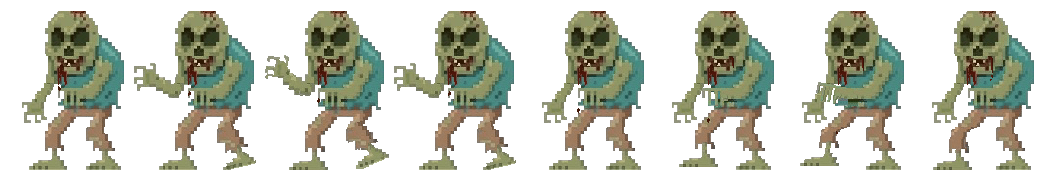
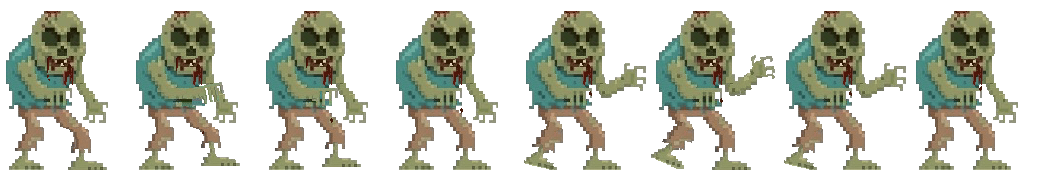
se configuraron sprite-sheet de zombies, se corrigió estetica de ambos juegos

diff --git a/src/scenes/MainMenu.js b/src/scenes/MainMenu.js
@@ -9,60 +9,59 @@ export class MainMenu extends Scene
 
     create ()
     {
-        this.add.image(575, 400, 'background').setScale(1.7);
-        this.add.image(580, 300, 'logo').setScale(1.5);
+        this.add.image(575, 400, 'background').setScale(1);
+        this.add.image(850, 250, 'logo').setScale(2);
     
-        this.playButton = this.add.image(580, 460, "playButton").setInteractive().setScale(0.2).setVisible(true);
+        this.playButton = this.add.image(850, 490, "playButton").setInteractive().setScale(0.2).setVisible(true);
         this.playButton.on('pointerover', () => {
             this.playButton.setScale(0.19);
         });
-
         this.playButton.on('pointerout', () => {
             this.playButton.setScale(0.2);
         });
-
         this.playButton.on('pointerdown', () => {
             this.scene.start('Lobby');
         });
 
-        this.langUSButton = this.add.image(620, 550, "langUSButton").setInteractive().setScale(0.5).setVisible(true);
-        this.langUSButton.on('pointerover', () => {
-            this.langUSButton.setScale(0.49);
-        });
-        this.langUSButton.on('pointerout', () => {
-            this.langUSButton.setScale(0.5);
-        });
-
-        this.langARButton = this.add.image(460, 550, "langARButton").setInteractive().setScale(0.125).setVisible(true);
+        
+        this.langARButton = this.add.image(40, 40, "langARButton").setInteractive().setScale(0.4).setVisible(true);
         this.langARButton.on('pointerover', () => {
-            this.langARButton.setScale(0.117);
+            this.langARButton.setScale(0.38);
         });
         this.langARButton.on('pointerout', () => {
-            this.langARButton.setScale(0.125);
+            this.langARButton.setScale(0.4);
         });
 
-        this.langFRButton = this.add.image(540, 550, "langFRButton").setInteractive().setScale(0.187).setVisible(true);
+        this.langFRButton = this.add.image(100, 40, "langFRButton").setInteractive().setScale(0.36).setVisible(true);
         this.langFRButton.on('pointerover', () => {
-            this.langFRButton.setScale(0.179);
+            this.langFRButton.setScale(0.34);
         });
         this.langFRButton.on('pointerout', () => {
-            this.langFRButton.setScale(0.187);
+            this.langFRButton.setScale(0.36);
         });
 
-        this.langALButton = this.add.image(700, 550, "langALButton").setInteractive().setScale(0.125).setVisible(true);
+        this.langUSButton = this.add.image(160, 40, "langUSButton").setInteractive().setScale(0.36).setVisible(true);
+        this.langUSButton.on('pointerover', () => {
+            this.langUSButton.setScale(0.34);
+        });
+        this.langUSButton.on('pointerout', () => {
+            this.langUSButton.setScale(0.36);
+        });
+
+        this.langALButton = this.add.image(220, 40, "langALButton").setInteractive().setScale(0.36).setVisible(true);
         this.langALButton.on('pointerover', () => {
-            this.langALButton.setScale(0.119);
+            this.langALButton.setScale(0.34);
         });
         this.langALButton.on('pointerout', () => {
-            this.langALButton.setScale(0.125);
+            this.langALButton.setScale(0.36);
         });
 
-        this.langBRButton = this.add.image(580, 630, "langBRButton").setInteractive().setScale(0.187).setVisible(true);
+        this.langBRButton = this.add.image(280, 40, "langBRButton").setInteractive().setScale(0.36).setVisible(true);
         this.langBRButton.on('pointerover', () => {
-            this.langBRButton.setScale(0.179);
+            this.langBRButton.setScale(0.34);
         });
         this.langBRButton.on('pointerout', () => {
-            this.langBRButton.setScale(0.187);
+            this.langBRButton.setScale(0.36);
         });
     }
 }

diff --git a/src/scenes/Preloader.js b/src/scenes/Preloader.js
@@ -39,15 +39,17 @@ export class Preloader extends Scene
         this.load.image('langBRButton', 'menu/langBR.png');
 
         this.load.image('playButton', 'menu/play.png');
-        this.load.image('background', 'bg.jpeg');
+        this.load.image('background', 'menu/bg.png');
 
+        this.load.image('bg-lob', 'lobby/bg-lobby.png');
         this.load.image('back', 'lobby/backboton.png');
         this.load.image('VS', 'lobby/versus.png');
         this.load.image('COP', 'lobby/coop.png');
 
-        this.load.image ('mapa','cooperativo/mapacop.jpeg');
+        this.load.image ('mapa','cooperativo/mapacop.png');
         this.load.image ('uixcop', 'cooperativo/uixCOP.png');
 
+        this.load.image('bg-vs','versus/bgVS.jpeg');
         this.load.image ('uixvs', 'versus/uixVS.png');
         
         //cooperativo
@@ -72,25 +74,13 @@ export class Preloader extends Scene
         });
 
         //zombies
-        this.load.spritesheet('z1_idle', '', {
-            frameWidth: 130,
-            frameHeight: 158,
+        this.load.spritesheet('zombie1', 'cooperativo/zombie1-Sheet.png', {
+            frameWidth: 264,
+            frameHeight: 390,
         });
-        this.load.spritesheet('zombie1', '', {
-            frameWidth: 130,
+        this.load.spritesheet('zombie2', 'cooperativo/zombie2-Sheet.png', {
+            frameWidth: 125,
             frameHeight: 158,
-        });
-        this.load.spritesheet('z2_idle', '', {
-            frameWidth: 130,
-            frameHeight: 158,
-        });
-        this.load.spritesheet('zombie2', '', {
-            frameWidth: 130,
-            frameHeight: 158,
-        });
-        this.load.spritesheet('z3_idle','cooperativo/zombie3-idle.png', {
-            frameWidth: 115,
-            frameHeight: 170,
         });
         this.load.spritesheet('zombie3','cooperativo/zombie3-Sheet.png', {
             frameWidth: 130,
@@ -185,13 +175,13 @@ export class Preloader extends Scene
         //zombies
         this.anims.create({
             key: 'zombie1_walk',
-            frames: this.anims.generateFrameNumbers('zombie1', {start: 0, end: 7}),
+            frames: this.anims.generateFrameNumbers('zombie1', {start: 0, end: 4}),
             frameRate: 10,
             repeat: -1,
         })
         this.anims.create({
             key: 'zombie2_walk',
-            frames: this.anims.generateFrameNumbers('zombie2', {start: 0, end: 7}),
+            frames: this.anims.generateFrameNumbers('zombie2', {start: 0, end: 5}),
             frameRate: 10,
             repeat: -1,
         })

diff --git a/src/scenes/Game.js b/src/scenes/Game.js
@@ -47,7 +47,7 @@ export class Game extends Scene {
     constructor() {
         super('Game');
         this.player1 = {
-            score: 0,
+            score: 60,
             controls: null,
             blocks: []
         };
@@ -56,12 +56,12 @@ export class Game extends Scene {
             controls: null,
             blocks: []
         };
-        this.timeLeft = 20; 
+        this.timeLeft = 60; 
         this.margin = 19; //margen 
     }
     
     init() {
-        this.timeLeft = 20;
+        this.timeLeft = 0;
         this.player1 = {
             score: 0,
         }
@@ -72,8 +72,8 @@ export class Game extends Scene {
 
     create() {
 
-        this.add.image(580, 384, 'background').setScale(2);
-        this.add.image(575, 384, 'uixvs');
+        this.add.image(575, 400, 'bg-vs').setScale(1);
+        this.add.image(575, 384.5, 'uixvs');
         this.player1.sprite = this.physics.add.sprite(300, 385, 'P1-idle').setScale(0.87);
         this.player2.sprite = this.physics.add.sprite(900, 385, 'P2-idle').setScale(0.87);
 
@@ -110,10 +110,10 @@ export class Game extends Scene {
         });
 
        
-        this.player1.scoreText = this.add.text(10, 10, `Score P1: ${this.player1.score}`, { fontSize: '32px', fill: '#ffffff' });
-        this.player2.scoreText = this.add.text(this.game.config.width - 270, 10, `Score P2: ${this.player2.score}`, { fontSize: '32px', fill: '#ffffff' });
+        this.player1.scoreText = this.add.text(200, 15, ` ${this.player1.score}`, { fontSize: '32px', fill: '#ffffff' });
+        this.player2.scoreText = this.add.text(this.game.config.width - 150, 15, ` ${this.player2.score}`, { fontSize: '32px', fill: '#ffffff' });
 
-        this.timerText = this.add.text(500, 10, `Time: ${this.timeLeft}`, { fontSize: '32px', fill: '#ffffff' });
+        this.timerText = this.add.text(587, 15, ` ${this.timeLeft}`, { fontSize: '32px', fill: '#ffffff' });
         this.timerEvent = this.time.addEvent({
             delay: 1000,
             callback: this.updateTimer,
@@ -253,13 +253,13 @@ export class Game extends Scene {
             });
     
             player.score += 10;
-            player.scoreText.setText(`Score P${player === this.player1 ? 1 : 2}: ${player.score}`);
+            player.scoreText.setText(` ${player.score}`);
         }
     }
 
     updateTimer() {
         this.timeLeft--;
-        this.timerText.setText(`Time: ${this.timeLeft}`);
+        this.timerText.setText(`${this.timeLeft}`);
         if (this.timeLeft <= 0) {
             this.timerEvent.remove();
         

diff --git a/src/scenes/GameCo.js b/src/scenes/GameCo.js
@@ -1,6 +1,6 @@
 import { Scene } from 'phaser';
 
-class Zombie extends Phaser.GameObjects.Sprite {
+class Zombie extends Phaser.Physics.Arcade.Sprite {
     constructor(scene, x, y, type, player) {
         super(scene, x, y, 'zombie_idle');  
 
@@ -40,7 +40,9 @@ class Zombie extends Phaser.GameObjects.Sprite {
     }
 
     startMoving() {
-        this.scene.physics.moveToObject(this, this.player, this.speed);
+        if (this.player) {  // Verifica que 'player' esté definido
+           this.scene.physics.moveToObject(this, this.player, this.speed);
+        }
     }
 
     update() {
@@ -82,8 +84,8 @@ export class GameCo extends Scene {
 
     create() {
         
-        this.add.image(550, 384, 'mapa');
-        this.add.image(550, 384, 'uixcop');
+        this.add.image(575, 400, 'mapa');
+        this.add.image(575, 384.5, 'uixcop').setScale();
 
         //personajes
         this.p1 = this.physics.add.sprite(this.posicionp1.x, this.posicionp1.y, 'player1');
@@ -99,9 +101,9 @@ export class GameCo extends Scene {
         this.p2.play('p2_idle');
 
         //zombies
-        this.zombie1 = new Zombie(this, 100, 100, 'zombie1', this.player1);
-        this.zombie2 = new Zombie(this, 300, 200, 'zombie2', this.player2);
-        this.zombie3 = new Zombie(this, 500, 300, 'zombie3', this.player1);
+        this.zombie1 = new Zombie(this, 100, 100, 'zombie1', this.p1).setScale(0.21);
+        this.zombie2 = new Zombie(this, 300, 200, 'zombie2', this.p2).setScale(0.41);
+        this.zombie3 = new Zombie(this, 500, 300, 'zombie3', this.p1).setScale(0.45);
 
         this.zombies = this.physics.add.group([this.zombie1, this.zombie2, this.zombie3]);
 
@@ -122,8 +124,8 @@ export class GameCo extends Scene {
 
         //colisiones
         this.physics.add.collider(this.p1, this.p2);
-        this.physics.add.collider(this.player1, this.zombies, this.onPlayerHit, null, this);
-        this.physics.add.collider(this.player2, this.zombies, this.onPlayerHit, null, this);
+        this.physics.add.collider(this.p1, this.zombies, this.onPlayerHit, null, this);
+        this.physics.add.collider(this.p2, this.zombies, this.onPlayerHit, null, this);
         
         this.input.keyboard.on('keydown', (event) => this.handleKeyPress(event));
         this.input.keyboard.on('keyup', (event) => this.handleKeyRelease(event));

diff --git a/src/scenes/Lobby.js b/src/scenes/Lobby.js
@@ -9,11 +9,9 @@ export class Lobby extends Scene
 
     create ()
     {
-        this.add.image(580, 384, 'background').setScale(2);
-
-
+        this.add.image(575, 400, 'bg-lob').setScale(1);
     
-        this.VSButton = this.add.image(580, 300, "VS").setInteractive().setScale(1).setVisible(true);
+        this.VSButton = this.add.image(300, 385, "VS").setInteractive().setScale(1).setVisible(true);
         this.VSButton.on('pointerover', () => {
             this.VSButton.setScale(0.97);
         });
@@ -37,7 +35,7 @@ export class Lobby extends Scene
             this.scene.start('MainMenu');
         });
 
-        this.COPButton = this.add.image(600, 550, "COP").setInteractive().setScale(0.9).setVisible(true);
+        this.COPButton = this.add.image(900, 385, "COP").setInteractive().setScale(0.9).setVisible(true);
         this.COPButton.on('pointerover', () => {
             this.COPButton.setScale(0.87);
         });

diff --git a/src/scenes/GameOver.js b/src/scenes/GameOver.js
@@ -10,7 +10,7 @@ export class GameOver extends Scene
     create (data)
     {
 
-        this.add.image(512, 384, 'background').setScale(2);
+        this.add.image(575, 400, 'bg-lob').setScale(1);
 
         this.add.text(600, 300, 'End Game', {
             fontFamily: 'Arial Black', fontSize: 64, color: '#ffffff',
@@ -42,7 +42,7 @@ export class GameOver extends Scene
         this.add.text(600, 400, `${data.winner}`, {
             fontFamily: 'Arial Black', 
             fontSize: 56, 
-            color: '#FFD700',
+            color: '#ffffff',
             stroke: '#000000', 
             strokeThickness: 6,
             align: 'center'

diff --git a/src/main.js b/src/main.js
@@ -11,7 +11,7 @@ import { Preloader } from './scenes/Preloader';
 const config = {
     type: Phaser.AUTO,
     width: 1150,
-    height: 768,
+    height: 800,
     parent: 'game-container',
     backgroundColor: '#028af8',
     scale: {
